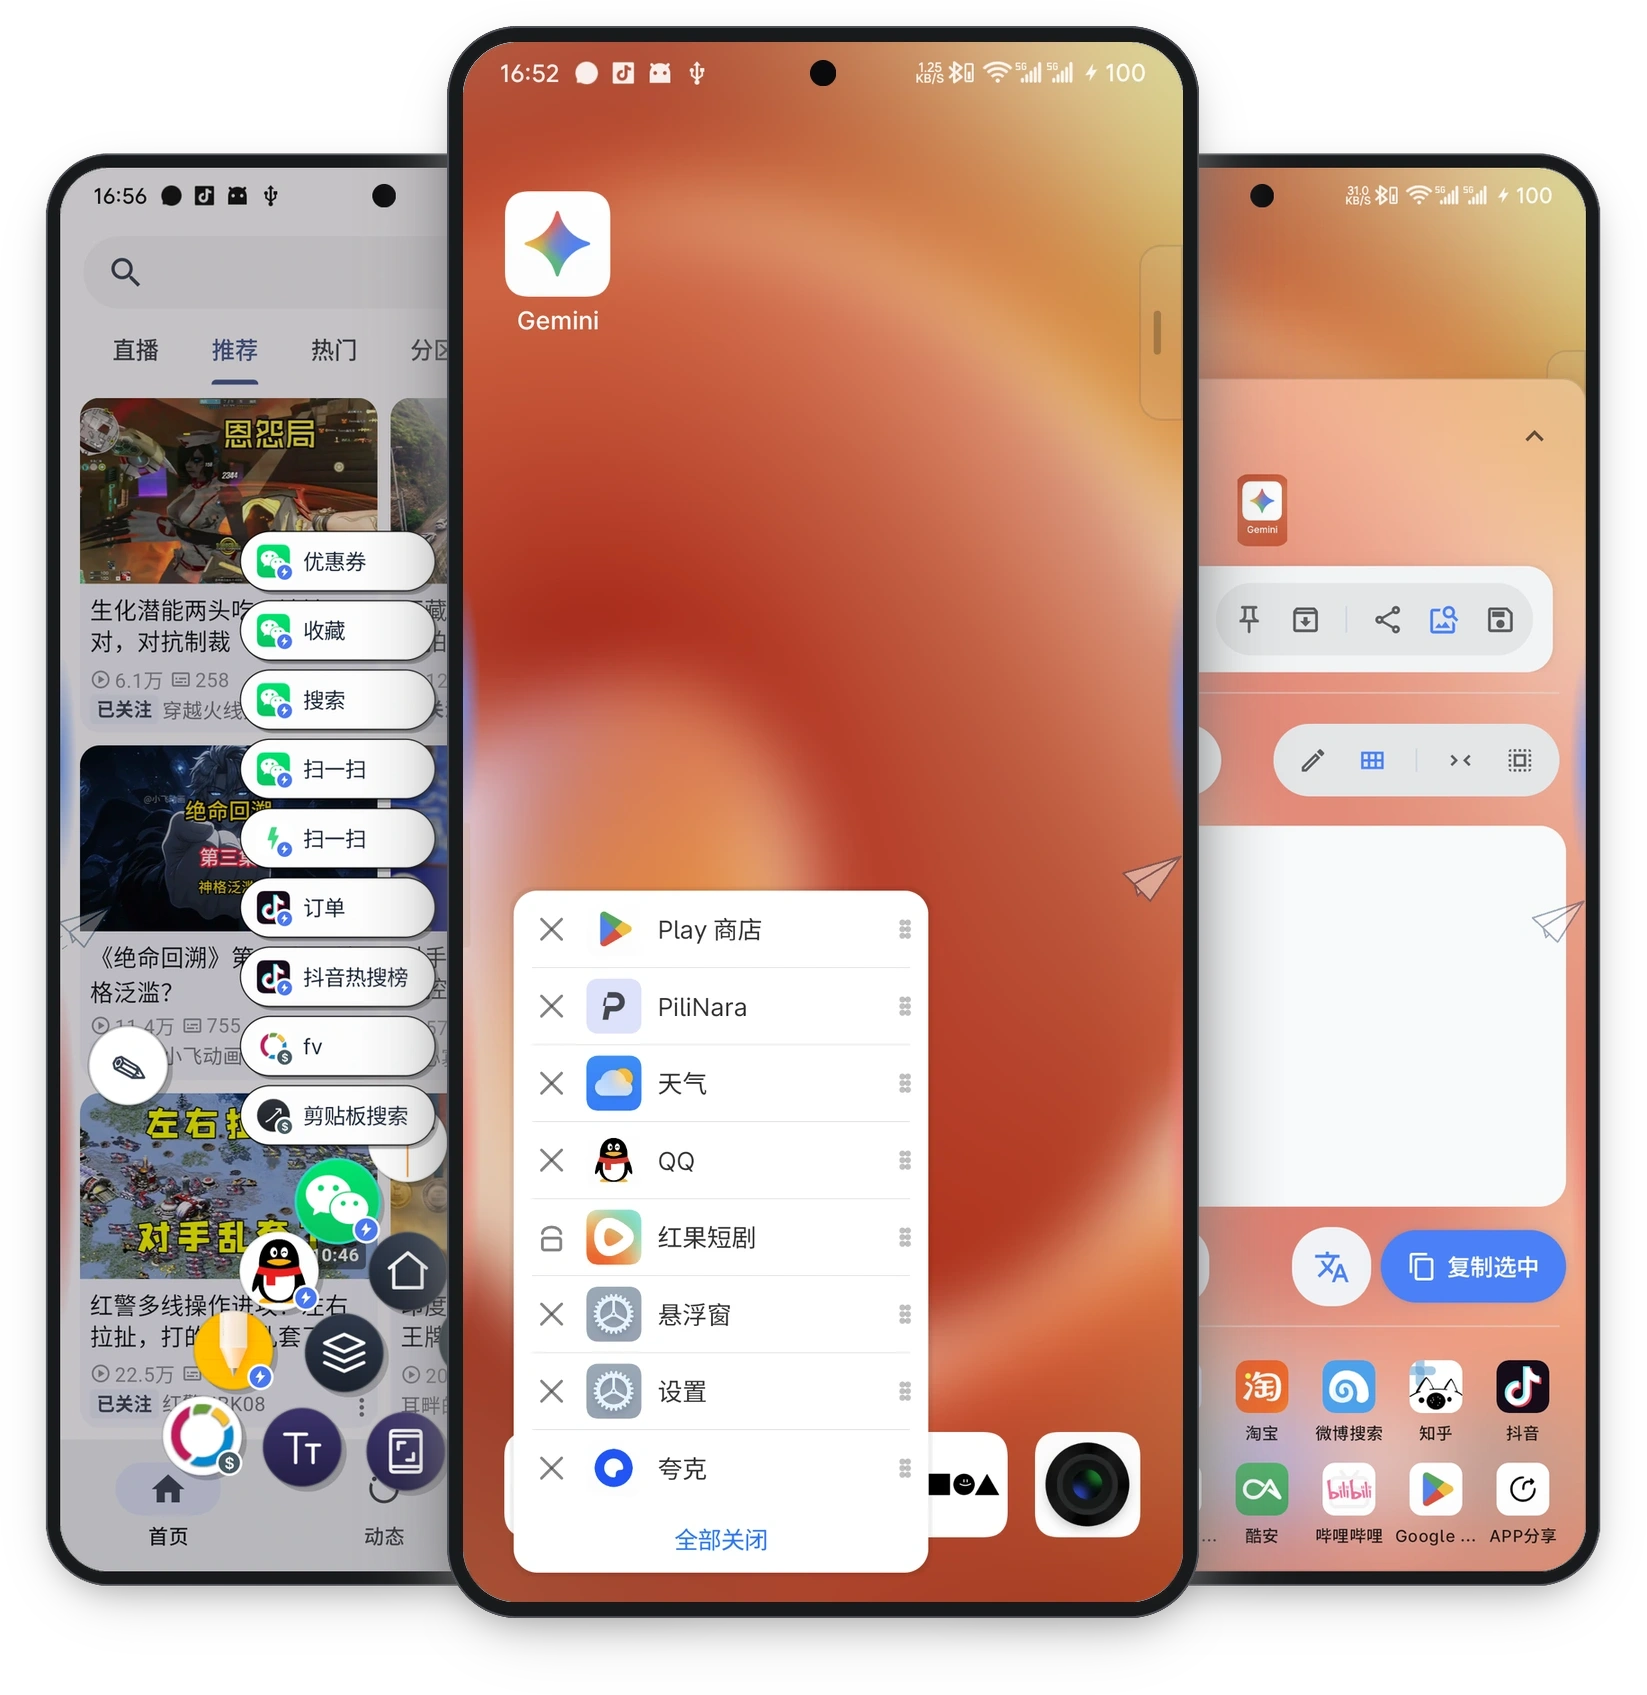
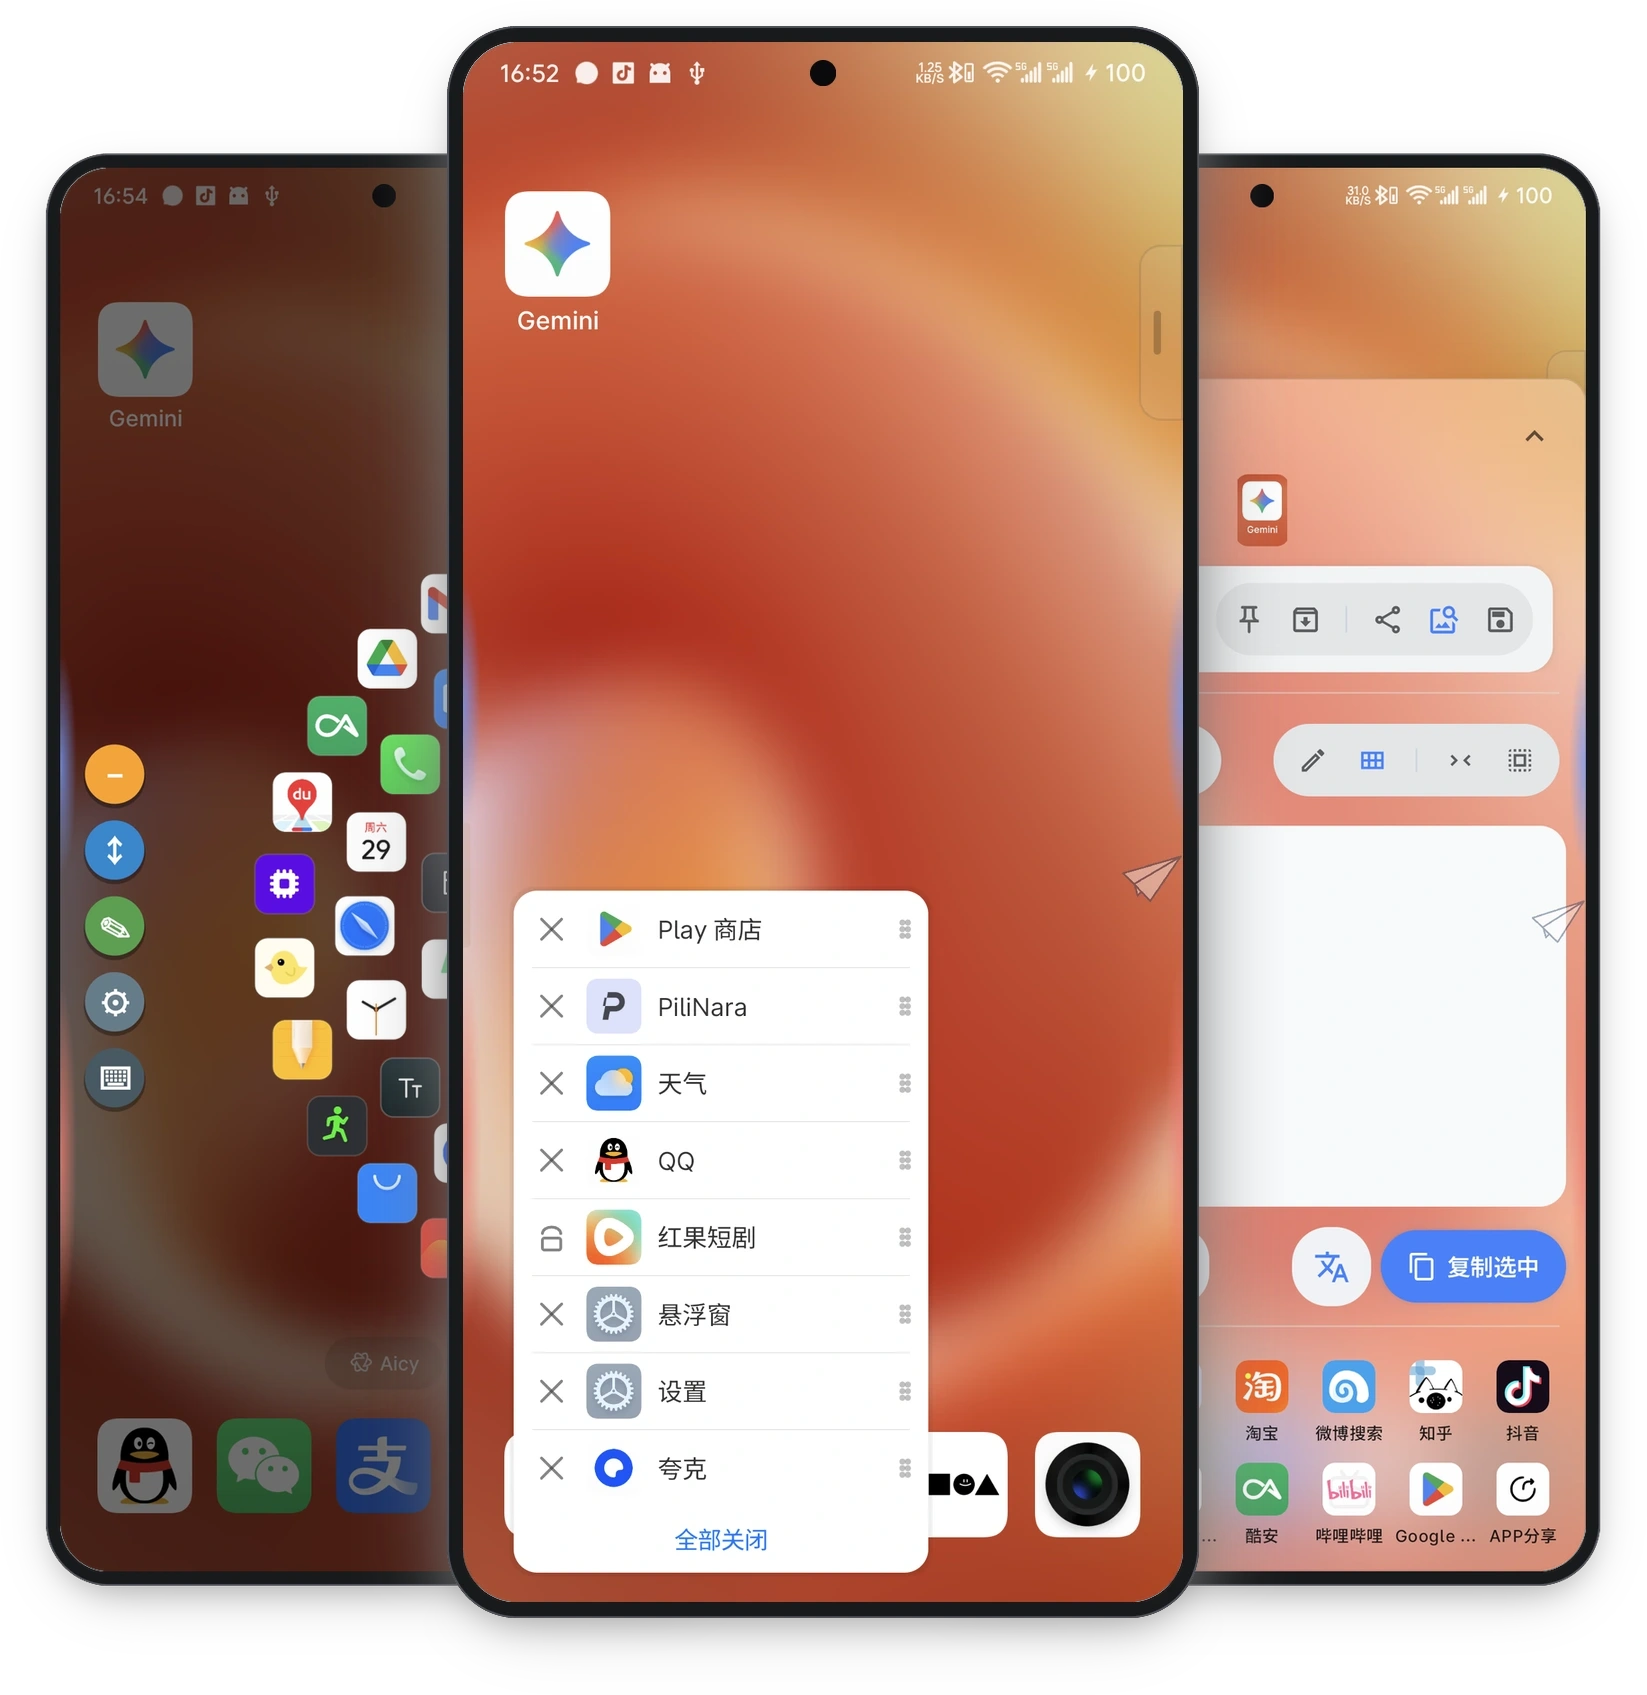
docs(readme): 纠正边角轮盘与圆环启动器图文映射，重构统一壁纸 Hero 全景海报

Changed region(s): [[0.031, 0.092, 0.2787, 0.951]]

diff --git a/README_en.md b/README_en.md
@@ -138,9 +138,9 @@ The app features four main navigation tabs: 🏠 **Home** · 📳 **Motion** · 
 
 <div align="center">
 
-| Circle Launcher (FV Style) | Honeycomb Launcher | Quick Launcher (Grid) |
+| Corner Radial Menu | Circle Launcher (FV Style) | Quick Launcher (Grid) |
 | :---: | :---: | :---: |
-| <img src="art/screenshots/01_circle_launcher_framed.webp" width="100%" alt="Circle Launcher" /> | <img src="art/screenshots/03_honeycomb_launcher_framed.webp" width="100%" alt="Honeycomb Launcher" /> | <img src="art/screenshots/06_quick_launcher_framed.webp" width="100%" alt="Quick Launcher" /> |
+| <img src="art/screenshots/01_circle_launcher_framed.webp" width="100%" alt="Corner Radial Menu" /> | <img src="art/screenshots/03_honeycomb_launcher_framed.webp" width="100%" alt="Circle Launcher" /> | <img src="art/screenshots/06_quick_launcher_framed.webp" width="100%" alt="Quick Launcher" /> |
 
 | Floating Pointer (Joystick) | Shell Command Panel (Shizuku) | Clipboard History / Stash |
 | :---: | :---: | :---: |

diff --git a/README.md b/README.md
@@ -138,9 +138,9 @@
 
 <div align="center">
 
-| 圆环启动器（FV 风格） | 蜂窝启动器（六边形） | 快速启动器（网格多面板） |
+| 边角轮盘（二级快捷菜单） | 圆环启动器（FV 风格） | 快速启动器（网格多面板） |
 | :---: | :---: | :---: |
-| <img src="art/screenshots/01_circle_launcher_framed.webp" width="100%" alt="圆环启动器" /> | <img src="art/screenshots/03_honeycomb_launcher_framed.webp" width="100%" alt="蜂窝启动器" /> | <img src="art/screenshots/06_quick_launcher_framed.webp" width="100%" alt="快速启动器" /> |
+| <img src="art/screenshots/01_circle_launcher_framed.webp" width="100%" alt="边角轮盘" /> | <img src="art/screenshots/03_honeycomb_launcher_framed.webp" width="100%" alt="圆环启动器" /> | <img src="art/screenshots/06_quick_launcher_framed.webp" width="100%" alt="快速启动器" /> |
 
 | 悬浮指针（虚拟摇杆） | Shell 命令面板（Shizuku） | 剪贴板历史 / 暂存收纳 |
 | :---: | :---: | :---: |
